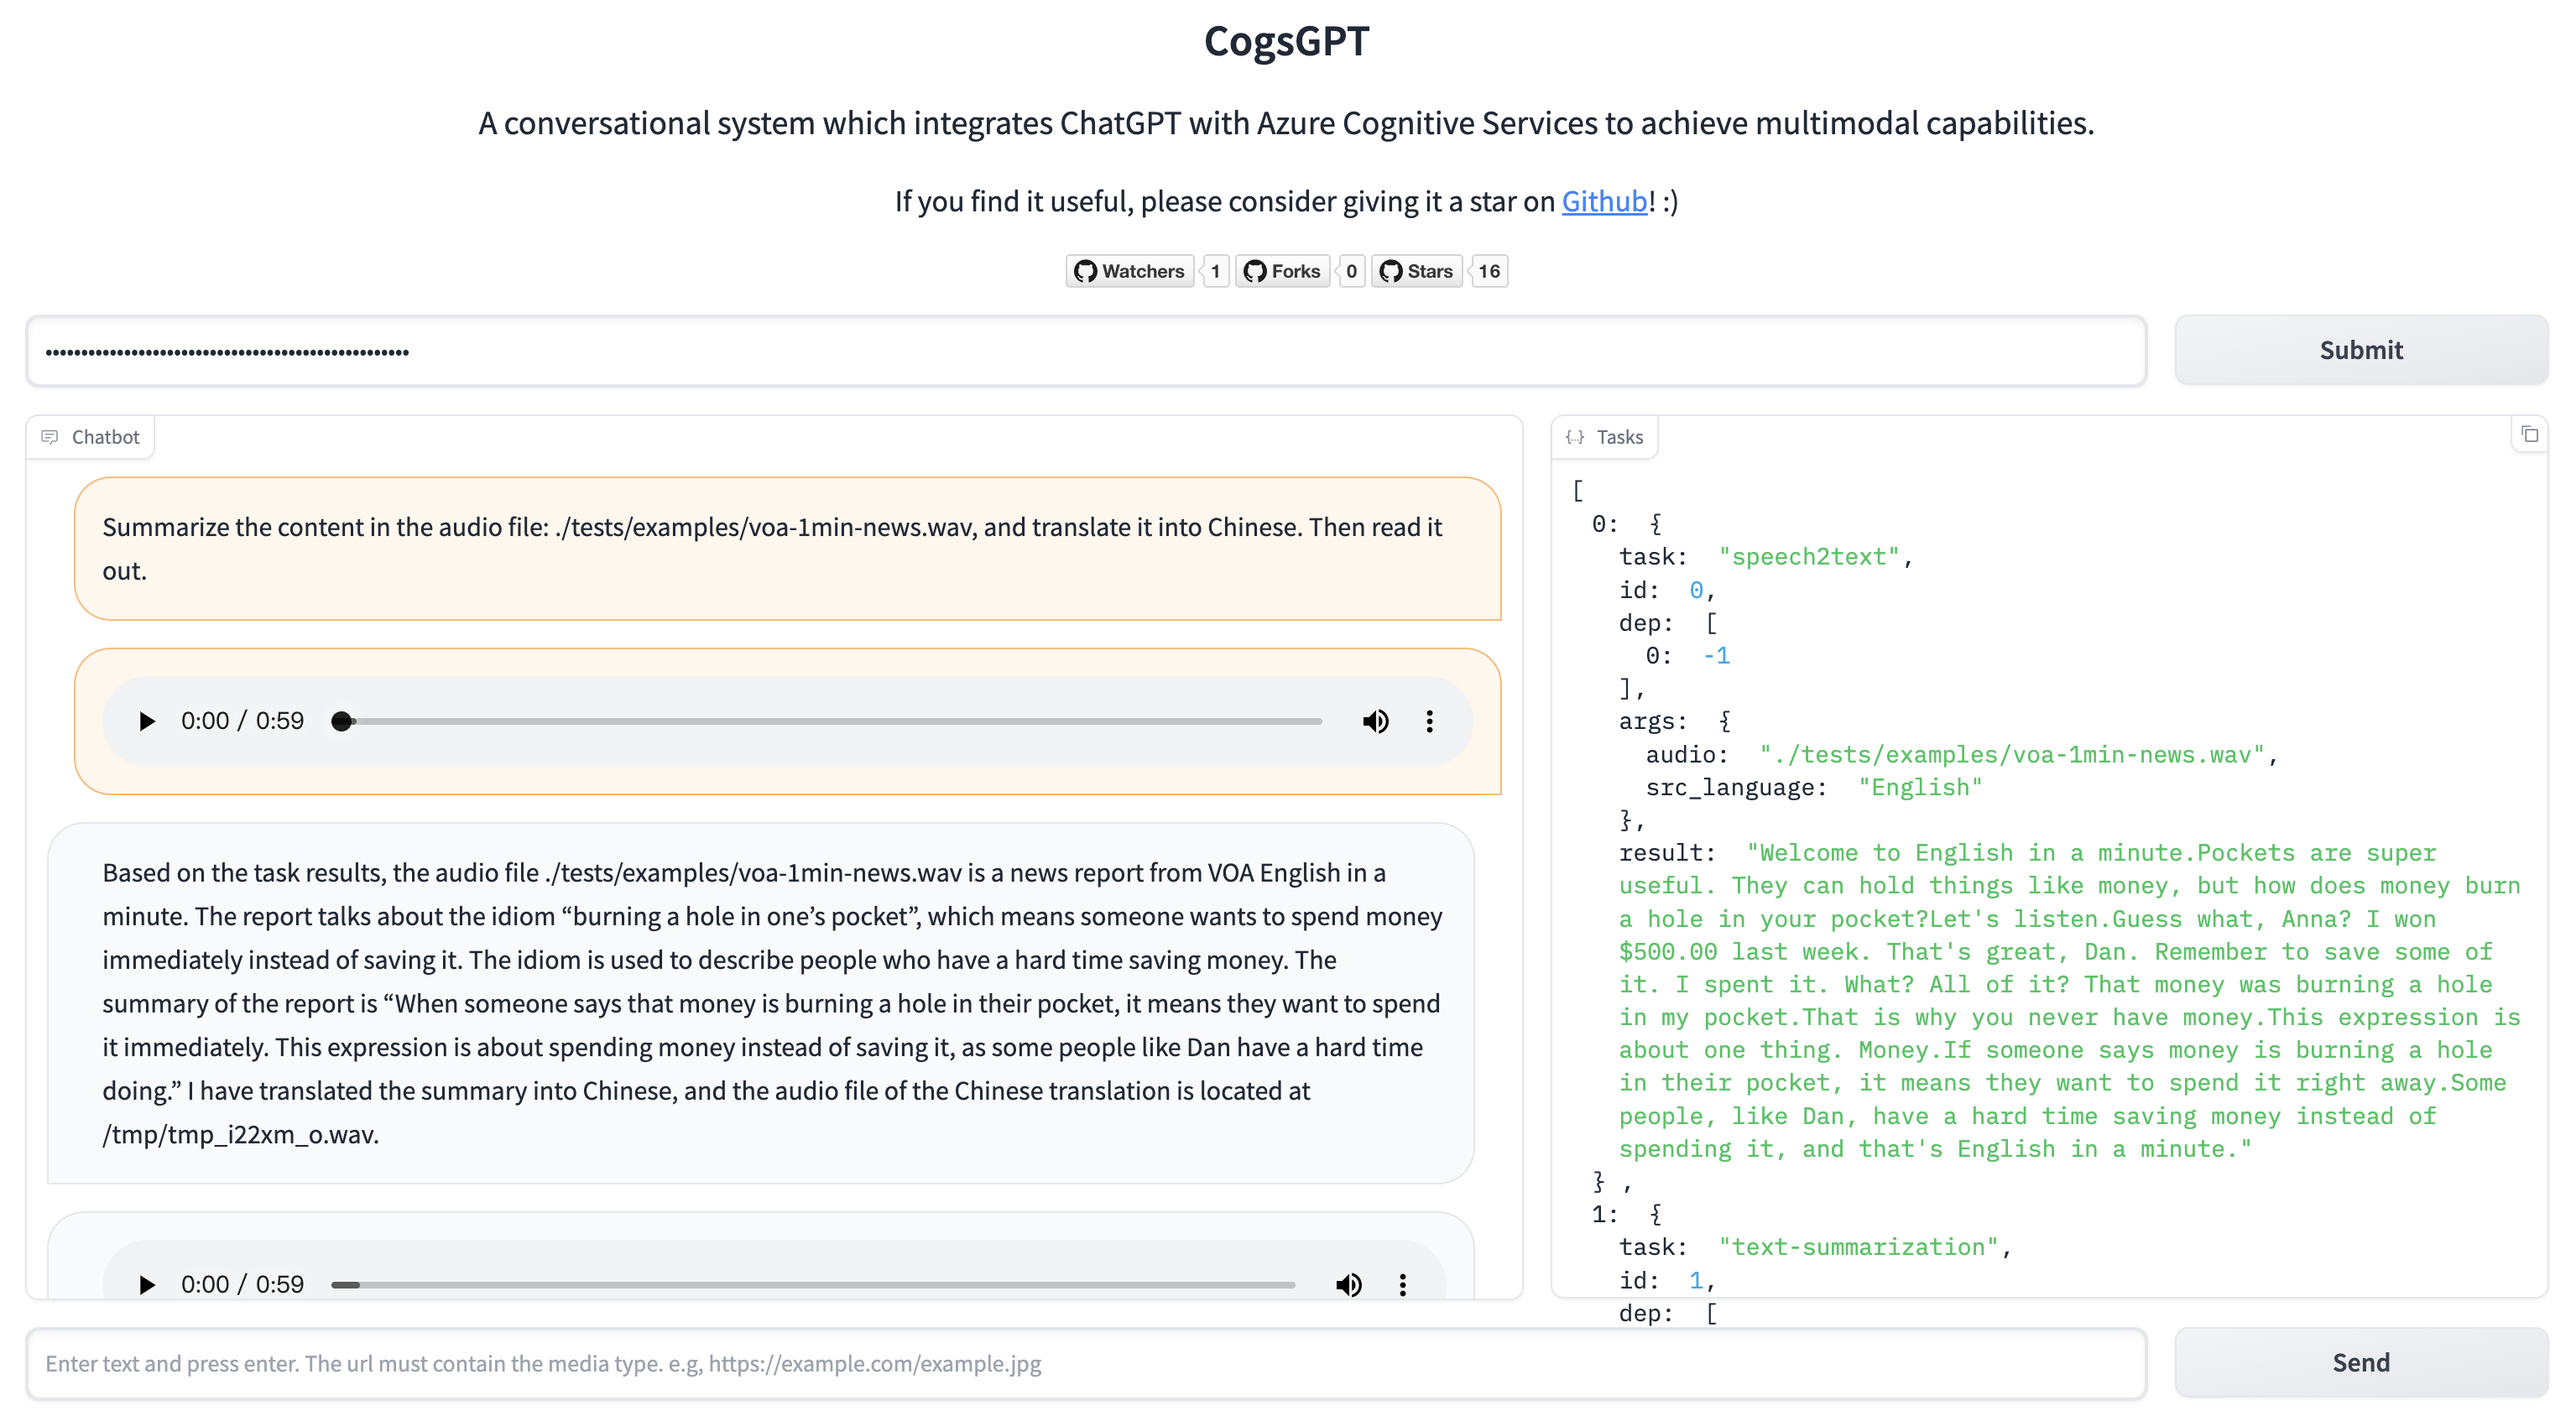
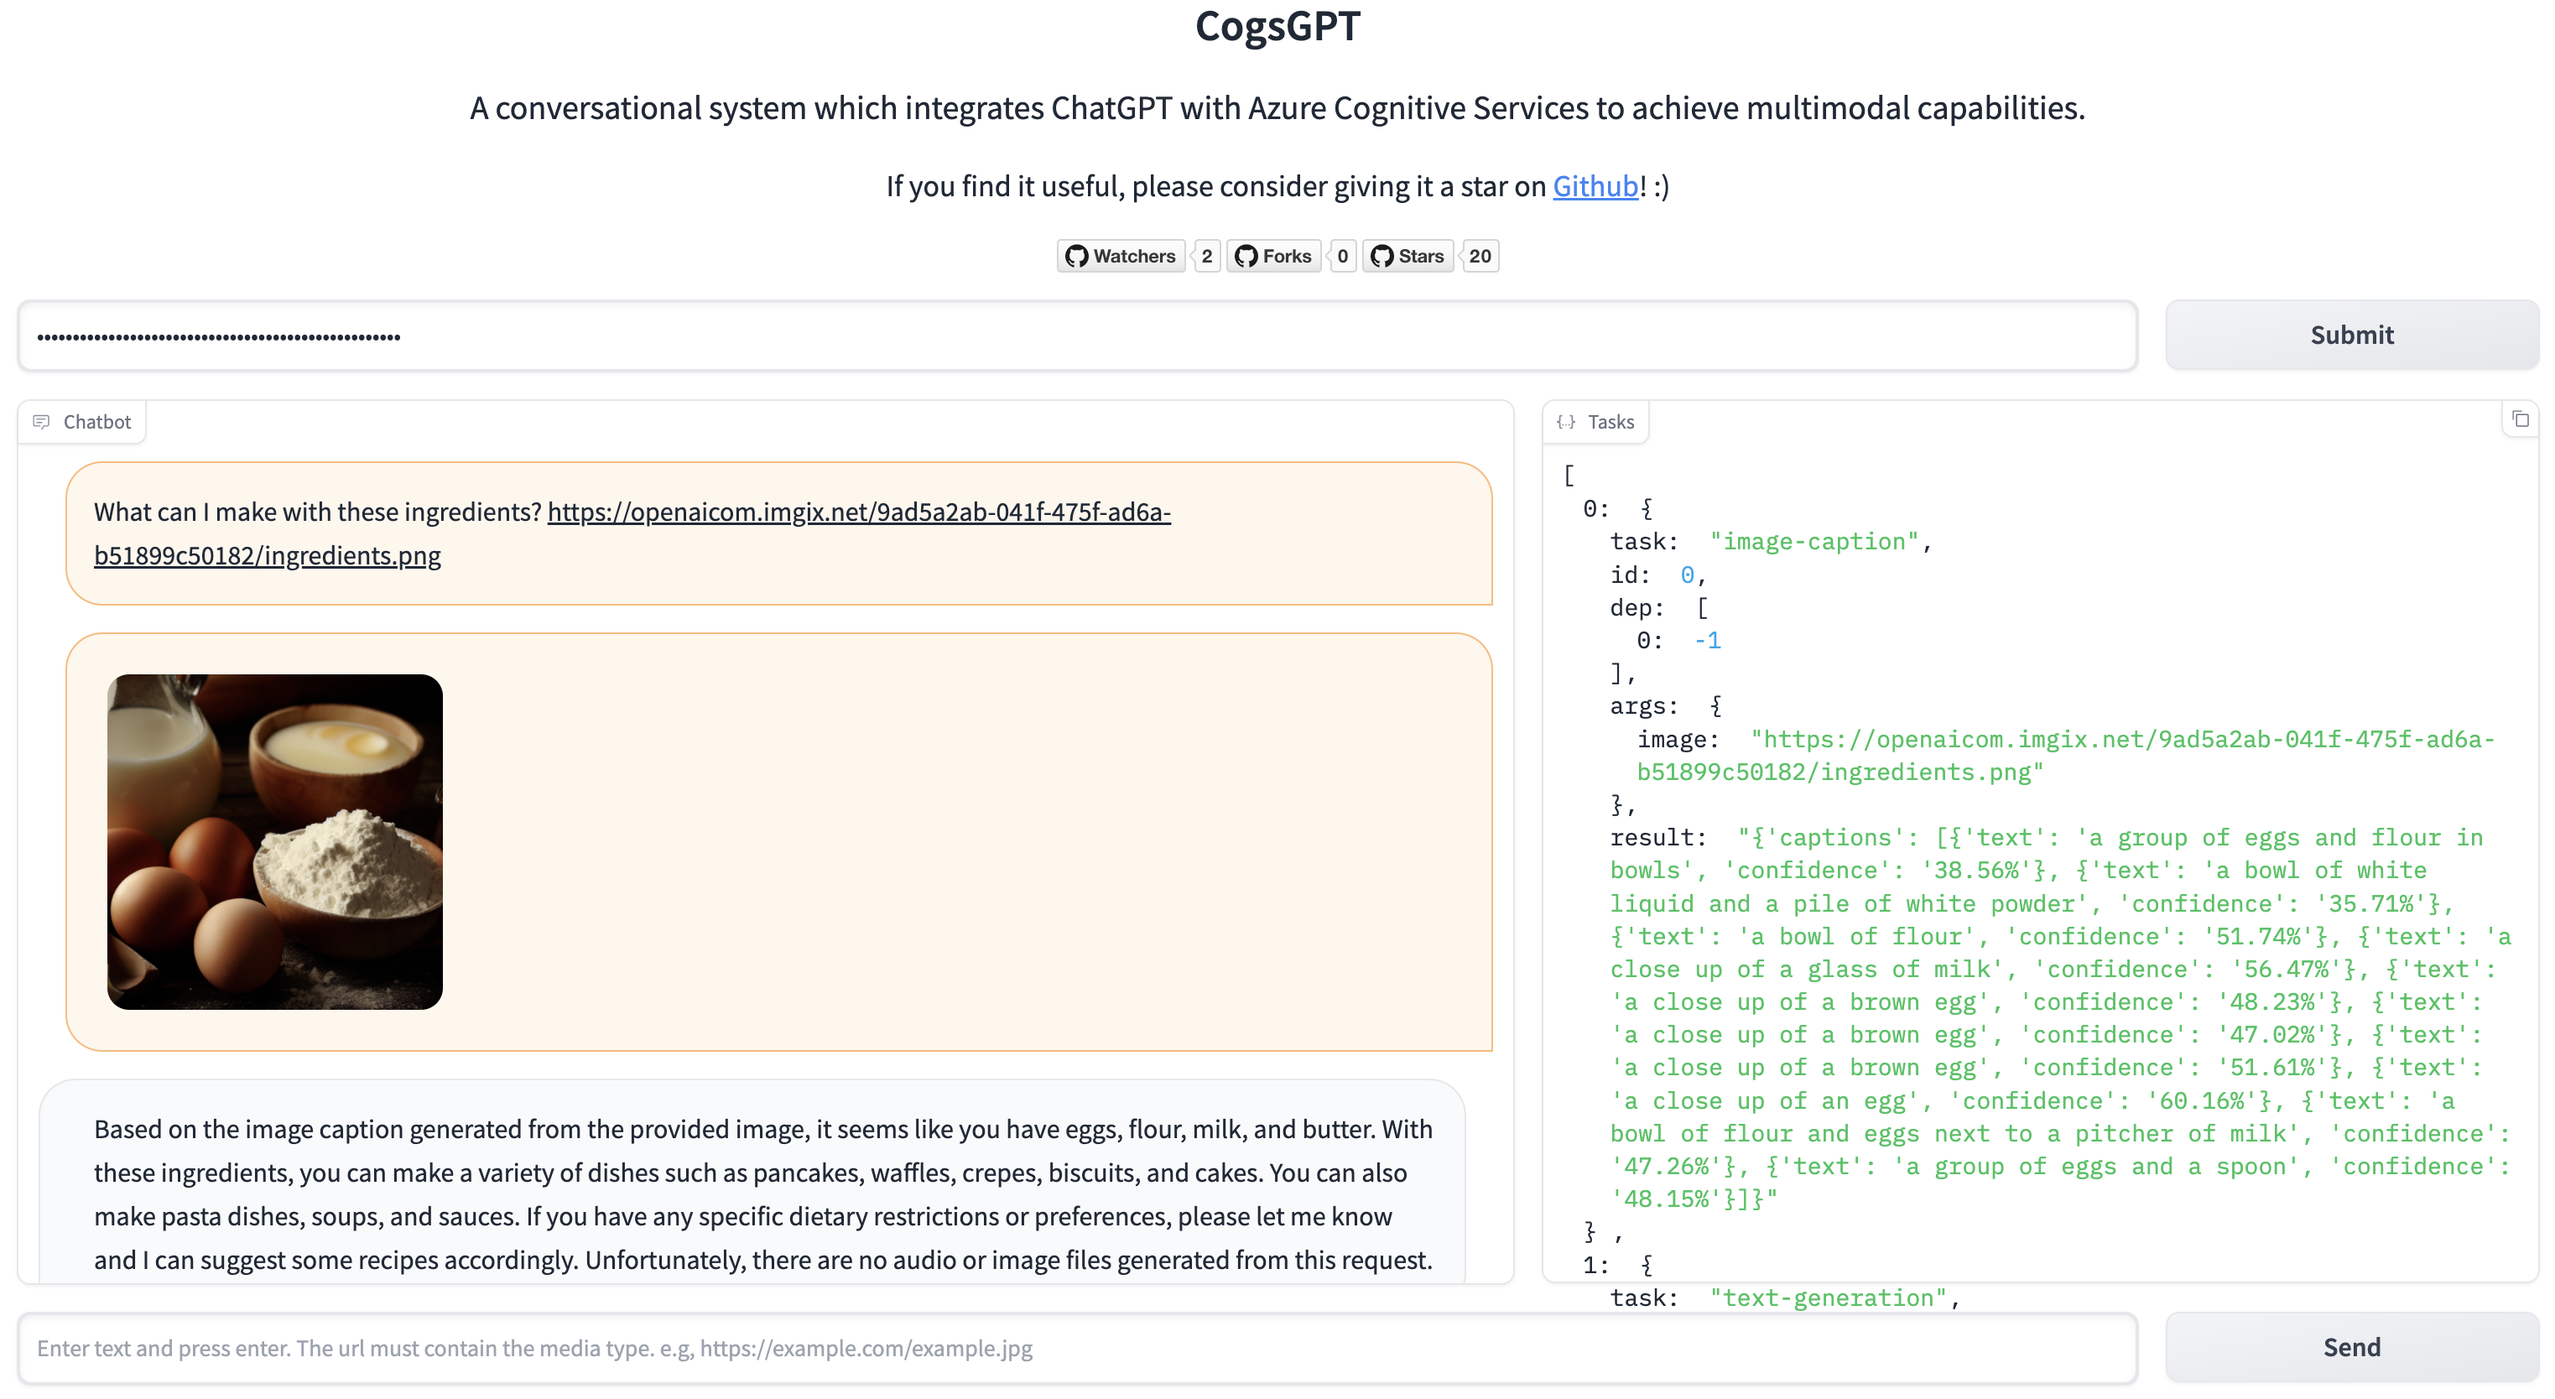
update examples

diff --git a/app.py b/app.py
@@ -208,7 +208,7 @@ with gr.Blocks(css=css) as demo:
     gr.Examples(
         examples=[
             # CV
-            "Describe the content of the image: ./tests/examples/presentation.png",
+            "What can I make with these ingredients? ./tests/examples/ingredients.png",
             "Extract the text from the image: ./tests/examples/handwritten-note.jpg",
             "Select images of dog from the list: [./tests/examples/animal-1.jpg, ./tests/examples/animal-2.jpg, ./tests/examples/animal-3.jpg]",
             "Remove the background of the image: ./tests/examples/wedding.png",
